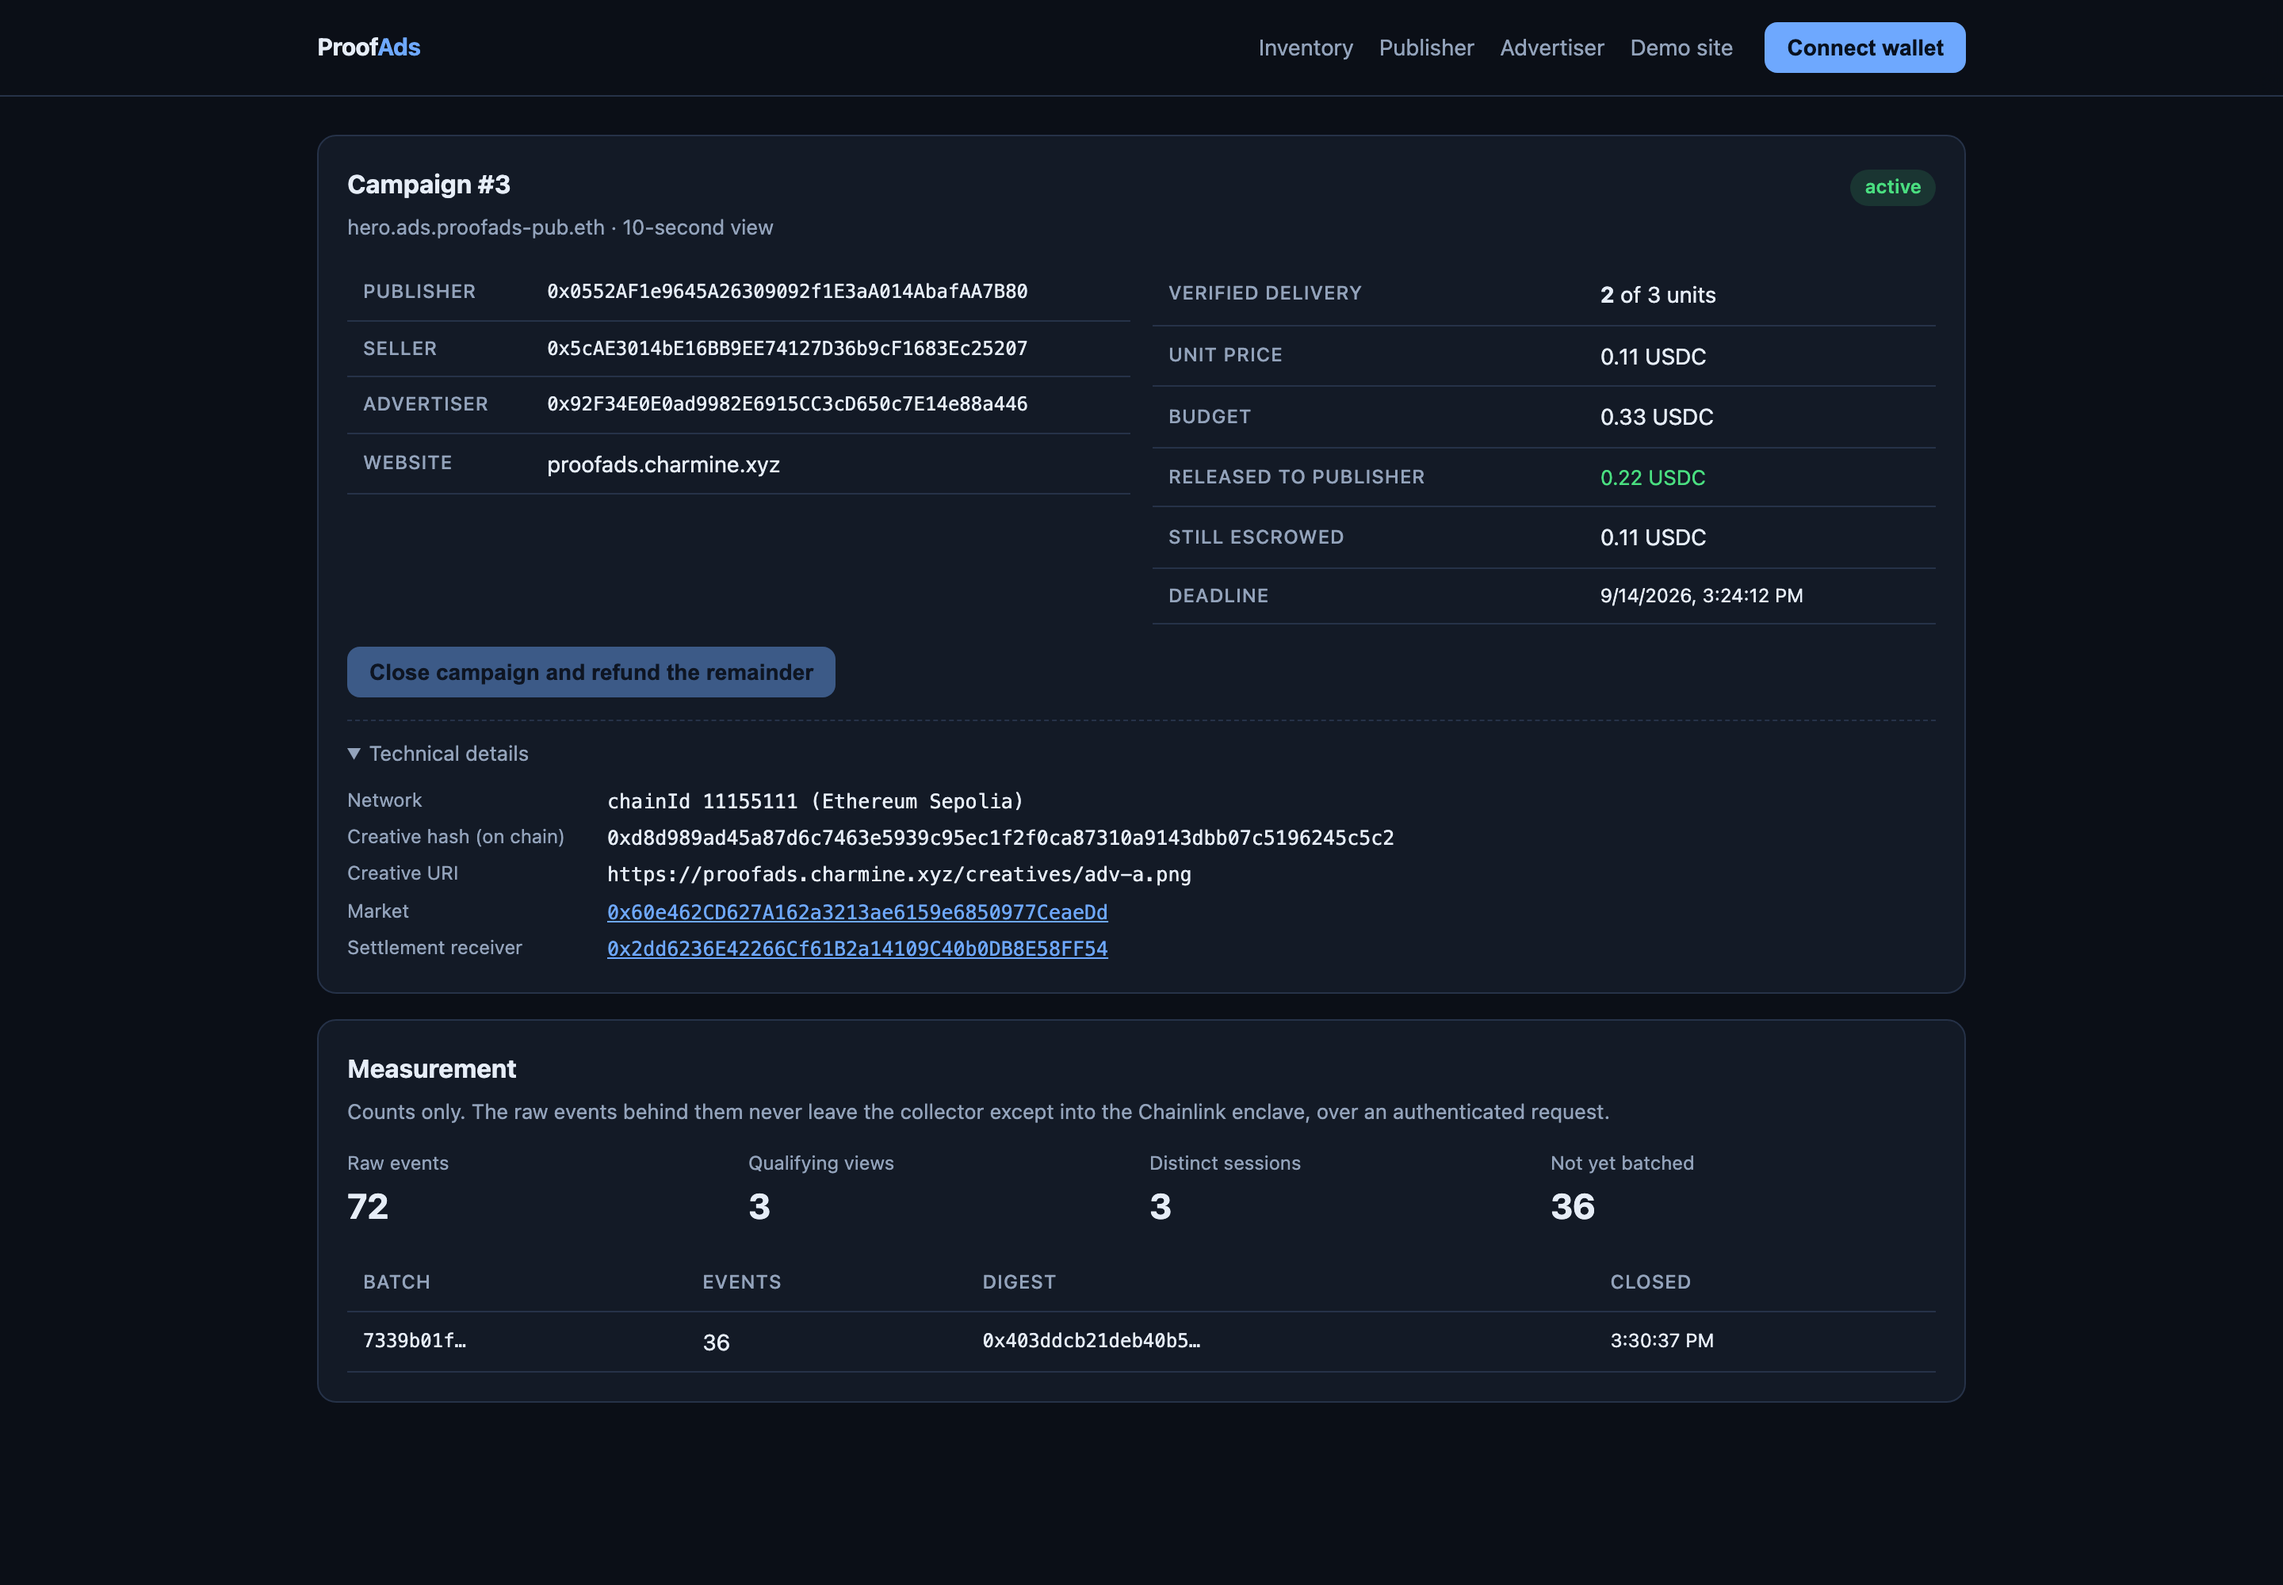
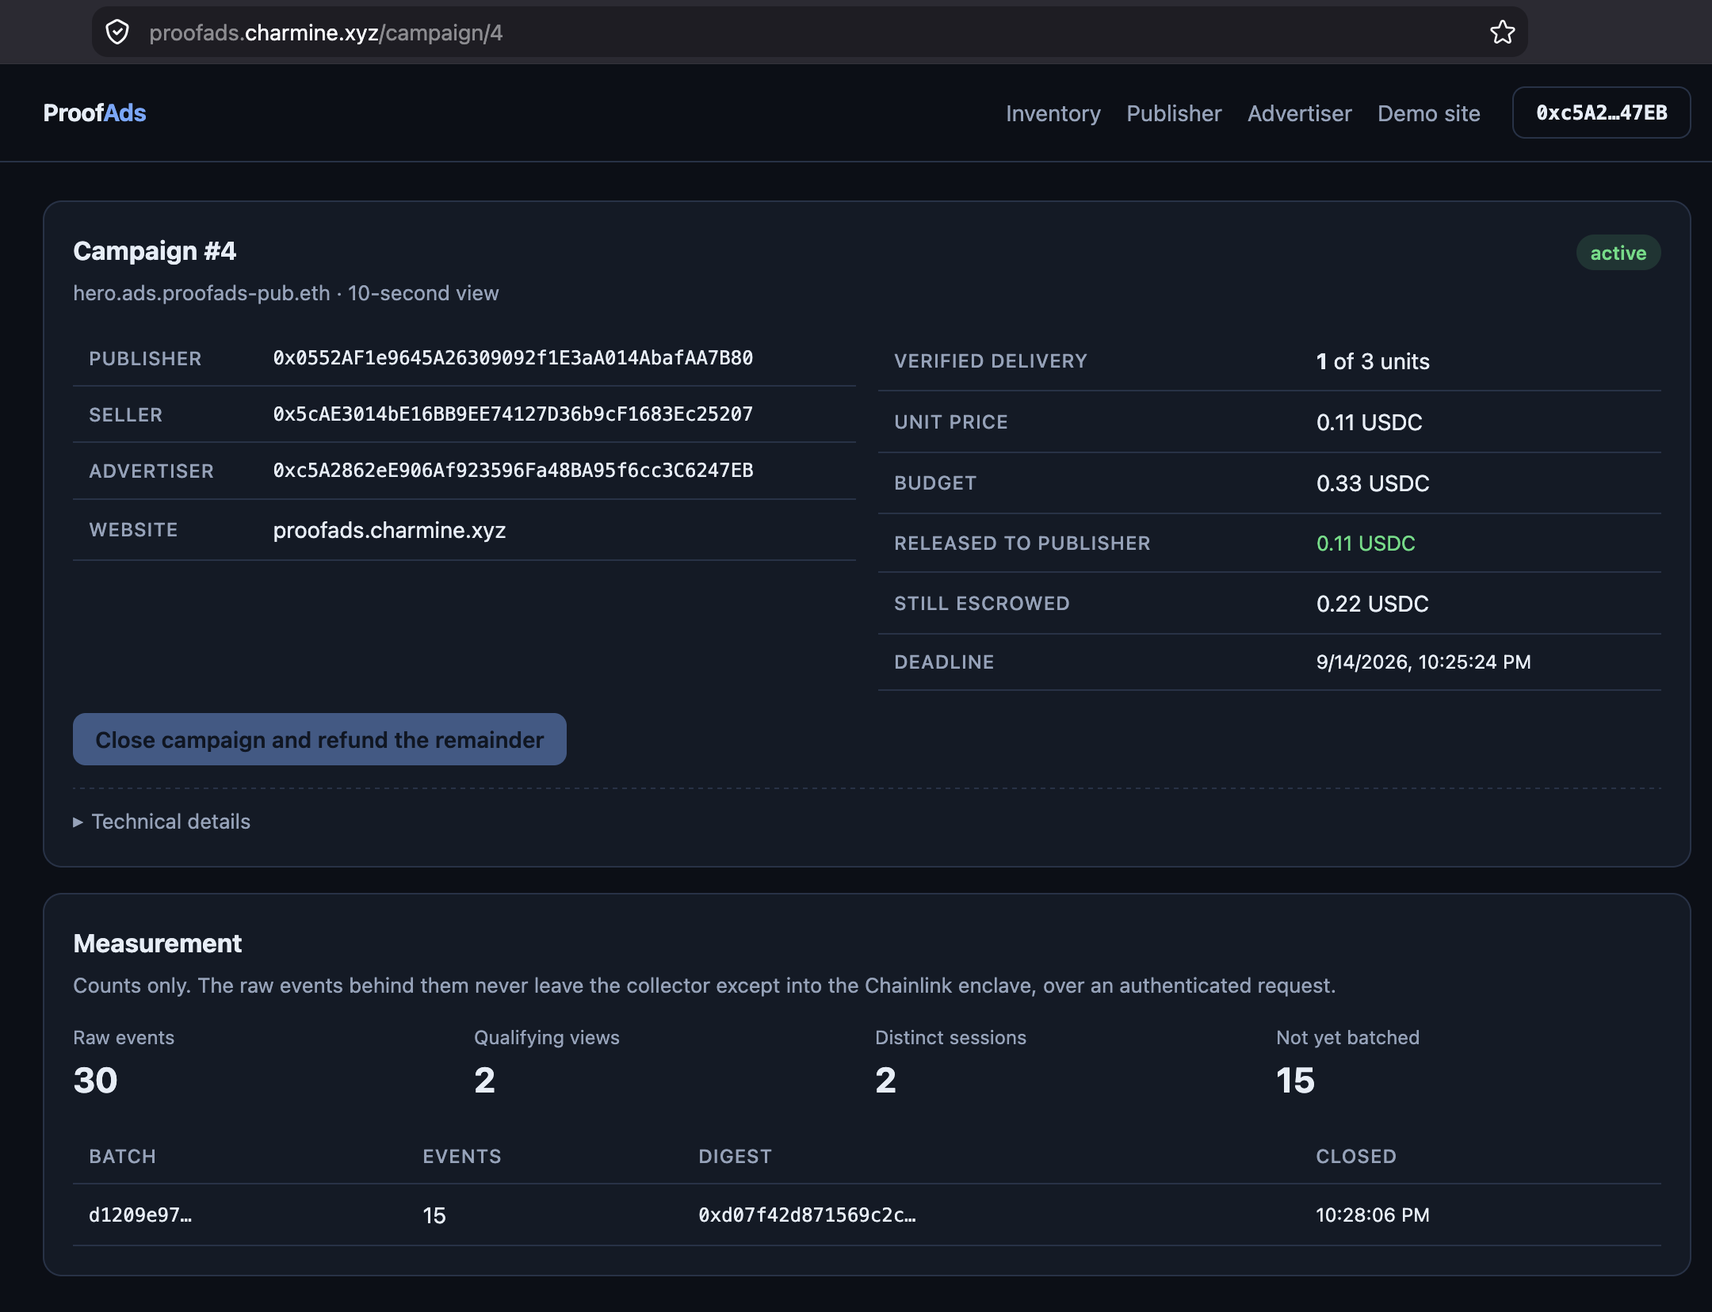
Update evidences and README

diff --git a/docs/DEPLOYMENTS.md b/docs/DEPLOYMENTS.md
@@ -63,42 +63,50 @@ names from the compiled ABI, so it cannot drift from the contracts.
[6 lines of base64/hex data omitted]
 | `createListing` / `placeBid` / `finalizeAuction` / `DeliveryApplied` / `CampaignClosed` | *(harvest with the script above)* |
 
-**Campaign 3 — the state the submission screenshots show.** Listed by the delegated agency
-`0x5cAE3014bE16BB9EE74127D36b9cF1683Ec25207` on `hero`, bid by advertiser
-`0x92F34E0E0ad9982E6915CC3cD650c7E14e88a446`, creative served from the public deployment at
-`https://proofads.charmine.xyz/creatives/adv-a.png`, and settled through the **public** collector
-rather than a local one:
+**Campaign 4 — the state the submission screenshots show.** Listing 7 on `hero`, opened by the
+delegated agency `0x5cAE3014bE16BB9EE74127D36b9cF1683Ec25207`, won by advertiser
+`0xc5A2862eE906Af923596Fa48BA95f6cc3C6247EB`, carrying the Meridian & Co banner served from the
+public deployment at `https://proofads.charmine.xyz/creatives/adv-d.png`, and settled through the
+**public** collector rather than a local one:
 
 | | |
 |---|---|
-| Enclave output | `batchEvents=36 newUnits=2 alreadySettled=0 cumulative=2 rejected[NOT_A_QUALIFYING_EVENT=34]` |
-| Verified delivery | 2 of 3 units |
-| Released to publisher | 0.22 USDC |
-| Still escrowed | 0.11 USDC |
[1 lines of base64/hex data omitted]
+| Enclave output | `batchEvents=15 newUnits=1 alreadySettled=0 cumulative=1 rejected[NOT_A_QUALIFYING_EVENT=14]` |
+| Verified delivery | 1 of 3 units |
+| Unit price | 0.11 USDC |
+| Released to publisher | 0.11 USDC |
+| Still escrowed | 0.22 USDC |
+| Measurement at capture | 30 raw events · 2 qualifying views · 2 sessions · 15 not yet batched |
[1 lines of base64/hex data omitted]
 
-The agency sold the slot; the publisher `0x0552AF1e9645A26309092f1E3aA014AbafAA7B80` was paid.
+The agency sold the slot; the publisher `0x0552AF1e9645A26309092f1E3aA014AbafAA7B80` was paid. The
+campaign is deliberately left **partially delivered** — a fully delivered campaign closes itself and
+frees the slot, and a screenshot of an empty slot proves nothing.
 
-The four logs of that transaction, kept in `evidence/etherscan-settlement-campaign3.png`, are the
+The four logs of that transaction, kept in `evidence/etherscan-settlement-campaign4.png`, are the
 whole settlement path in one receipt:
 
 | # | Contract | Event |
 |---|---|---|
-| 148 | `ProofAdsSettlementReceiver` | `SettlementReportReceived(campaignId 3, cumulativeVerifiedUnits 2, batchDigest 0x403DDCB2…, window 1789127700→1789128024)` |
-| 149 | Circle USDC | `Transfer(market → publisher, 220000)` |
-| 150 | `ProofAdsMarket` | `DeliveryApplied(3, reported 2, effective 2, payoutDelta 220000, batchDigest 0x403DDCB2…)` |
-| 151 | Chainlink `KeystoneForwarder` | `ReportProcessed(receiver, workflowExecutionId, reportId 0x0001, result: true)` |
+| 253 | `ProofAdsSettlementReceiver` | `SettlementReportReceived(campaignId 4, cumulativeVerifiedUnits 1, batchDigest 0xD07F42D8…, window 1789153020→1789153032)` |
+| 254 | Circle USDC | `Transfer(market → publisher, 110000)` |
+| 255 | `ProofAdsMarket` | `DeliveryApplied(4, reported 1, effective 1, payoutDelta 110000, batchDigest 0xD07F42D8…)` |
+| 256 | Chainlink `KeystoneForwarder` | `ReportProcessed(receiver, workflowExecutionId, reportId 0x0001, result: true)` |
 
-Two details are worth pointing at. The identical `batchDigest` in logs 148 and 150 is the replay
+Two details are worth pointing at. The identical `batchDigest` in logs 253 and 255 is the replay
 protection of ADR-016 visible on chain — the same digest arriving again is a no-op, not a second
-payment. And `result: true` in log 151 is precisely the field that read `false` in the
+payment. And `result: true` in log 256 is precisely the field that read `false` in the
 gas-starved attempt below; the Forwarder reports receiver failure there and nowhere else, which
 is why ADR-017 exists.
 
-Terminal output for the same run is in `evidence/cre-simulate-campaign3.png`.
+Terminal output for the same run is in `evidence/cre-simulate-campaign4.png`.
+
+**Campaign 3** settled the same way one run earlier — `0xf64fc79f…07d6`, 2 of 3 units,
+0.22 USDC released — against the gradient creative, before the demo banners existed.
 
 **The settlement that worked.** `0x320ea411…36e29b`, the same batch and the same report as the
 failed attempt, re-run after ADR-017 raised the gas limit. One unit of verified attention:

diff --git a/README.md b/README.md
@@ -131,7 +131,7 @@ That one script starts Postgres and Anvil, deploys the full ENSv2 hierarchy plus
 the collector and the web app at the fresh deployment, and then runs the end-to-end proof —
 35 assertions covering grant → revocation-revert → listing → escrowed bids → finalization →
 refund → 10-second measurement → immutable batch → confidential handler → forwarder → USDC payout →
-close → refund. Output is kept in [`docs/evidence/e2e-run.txt`](docs/evidence/e2e-run.txt).
+close → refund.
 
 Then open http://127.0.0.1:3000/demo-publisher, and:
 
